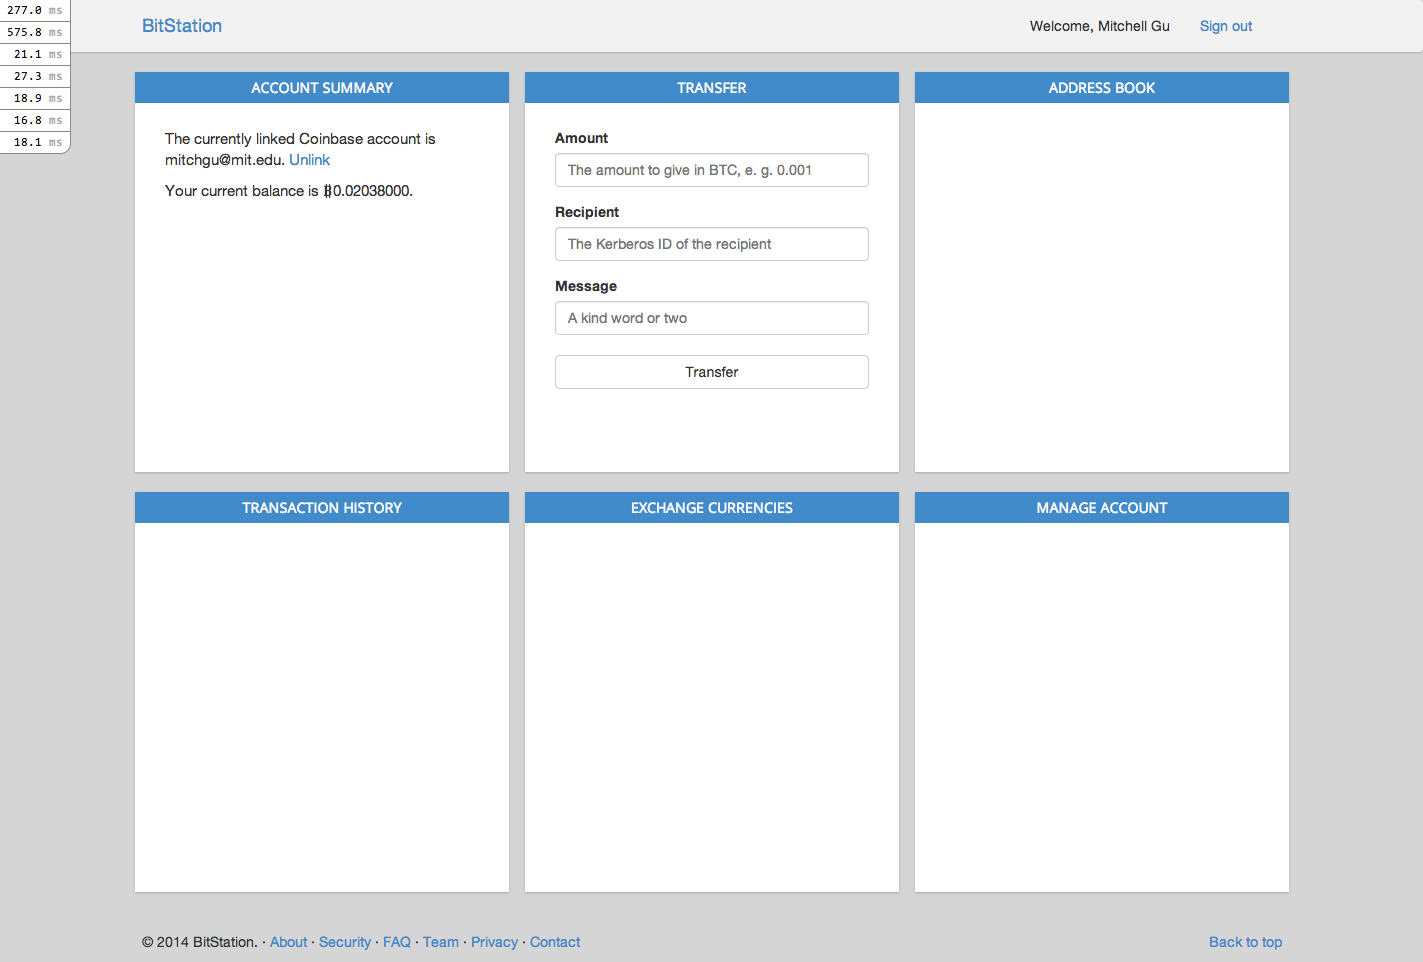
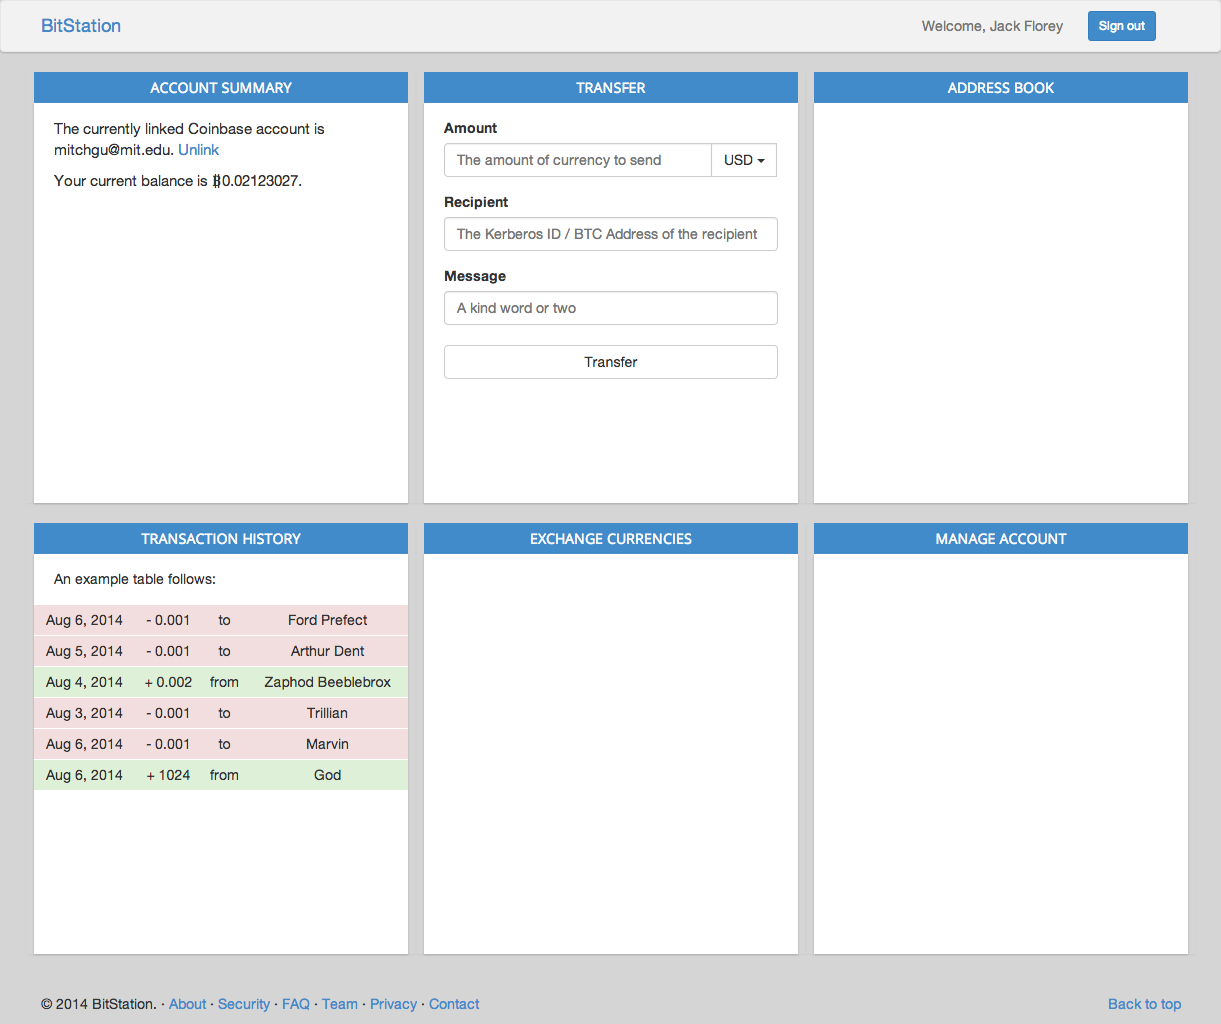
Reconfigured sign-in and sign-out buttons

diff --git a/app/assets/stylesheets/application.css b/app/assets/stylesheets/application.css
@@ -44,12 +44,13 @@ body {
   box-shadow:0 1px 2px #aaa;
 }
 
+.navbar .btn-sm {
+  margin: 10px;
+}
+
 .navbar-nav {
   text-align: right;
 
-}
-.navbar-nav p.navbar-text {
-  padding: 0 15px;
 }
 
 .navbar-default .navbar-brand {
@@ -73,4 +74,10 @@ footer {
     -moz-transition: all 0.5s ease;
     -o-transition: all 0.5s ease;
     transition: all 0.5s ease;
+}
+
+@media (max-width: 768px) {
+  .navbar-nav p.navbar-text {
+    padding: 0 15px;
+  }
 }

diff --git a/app/assets/stylesheets/static_pages.css.scss b/app/assets/stylesheets/static_pages.css.scss
@@ -7,7 +7,6 @@
 		background-color: white;
 		box-shadow:0 1px 2px #aaa;
 		background: white;
-		padding: 0;
 	}
 	.alert {
 		margin: 0;
@@ -19,7 +18,7 @@
 		background-color: #436F94;
 		color: #f2f2f2;
 		.btn {
-			margin: 25px;
+				margin: 26px 5px;
 		}
 		aside {
 			padding: 0 20px;

diff --git a/app/controllers/static_pages_controller.rb b/app/controllers/static_pages_controller.rb
@@ -1,6 +1,9 @@
 class StaticPagesController < ApplicationController
+  require 'securerandom'
   def homepage
     redirect_to dashboard_url if signed_in?
+    @auth_link = 'https://jiahaoli.scripts.mit.edu:444/bitstation/authenticate/?auth_token=' + SecureRandom.hex
+    @nelly_auth_link = sessions_authenticate_path(auth_token: 'nelly') if Rails.env.development?
   end
   def about
   end
